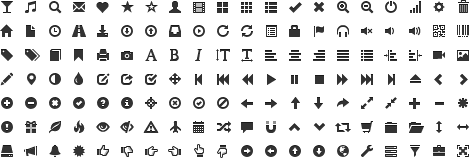
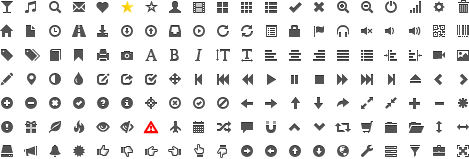
maj profile

diff --git a/public/css/icon-color.css b/public/css/icon-color.css
@@ -13,5 +13,5 @@
 .dropdown-menu > li > a:hover > [class*=" icon-"],
 .dropdown-menu > .active > a > [class^="icon-"],
 .dropdown-menu > .active > a > [class*=" icon-"] {
-  background-image: url("../img/glyphicons-halflings-color.png");
+  background-image: url("../bootstrap/img/glyphicons-halflings-color.png");
 }

diff --git a/application/views/candidat/profile/profile_submenu.php b/application/views/candidat/profile/profile_submenu.php
@@ -1,6 +1,6 @@
 <ul class="nav nav-pills">
-  <li <?php if($rubrique == 0) { echo "class='active'"; } ?>><?php echo anchor('main/edit_profile/0',"Mes infos personnelles"); ?></li>
-  <li <?php if($rubrique == 1) { echo "class='active'"; } ?>><?php echo anchor('main/edit_profile/1',"Mon expérience"); ?></li>
-  <li <?php if($rubrique == 2) { echo "class='active'"; } ?>><?php echo anchor('main/edit_profile/2',"Mes compétences"); ?></li>
-  <li class='red-pill <?php if($rubrique == 3) { echo " active"; } ?>'><?php echo anchor('register/unregister',"Supprimer mon compte"); ?></li>
+  <li <?php if($rubrique == 0) { echo "class='active'"; } ?>><?php echo anchor('main/edit_profile/0',"1. Mes infos personnelles"); ?></li>
+  <li <?php if($rubrique == 1) { echo "class='active'"; } ?>><?php echo anchor('main/edit_profile/1',"2. Mon expérience"); ?></li>
+  <li <?php if($rubrique == 2) { echo "class='active'"; } ?>><?php echo anchor('main/edit_profile/2',"3. Mes compétences"); ?></li>
+  <li class='red-pill pull-right <?php if($rubrique == 3) { echo " active"; } ?>'><?php echo anchor('register/unregister',"<i class='icon icon-color icon-warning-sign'></i> Supprimer mon compte"); ?></li>
 </ul>

diff --git a/application/views/candidat/profile/profile-2.php b/application/views/candidat/profile/profile-2.php
@@ -7,7 +7,7 @@ $description = array(
     'name' => 'description',
     'id'    => 'description',
     'value' => set_value('description',$user->description),
-    'placeholder' => 'Description courte (140 mots)',
+    'placeholder' => 'exemple : Passionné de décoration florale moderne, je pratique avec un style très naturel autour de couleur blanche et verte.',
     'rows' => '4',
     'cols' => '140',
     'class' => 'span10',
@@ -31,6 +31,7 @@ $informatique = array(
 <p class='lead'>Description rapide</p>
 
 <div class='well'>
+    <p>Décrivez en 2 lignes votre style de pratique, votre passion.</p>
     <?php echo form_textarea($description); ?>
 </div>
 

diff --git a/application/views/common/head.php b/application/views/common/head.php
@@ -7,7 +7,7 @@
         
         <link rel="stylesheet" href="http://blueimp.github.com/Bootstrap-Image-Gallery/css/bootstrap-image-gallery.min.css">       
         <link rel="stylesheet" href="<?= base_url(); ?>public/css/jquery.fileupload-ui.css" type="text/css" media="all"/>
-        
+        <link rel="stylesheet" href="<?= base_url(); ?>public/css/icon-color.css" type="text/css" media="all"/>
         <link rel="stylesheet" href="<?= base_url(); ?>public/css/private.css" type="text/css" media="all"/>
         
      

diff --git a/application/controllers/temp.php b/application/controllers/temp.php
@@ -68,7 +68,18 @@ class Temp extends CI_Controller
     
     function info() {
         phpinfo();
-    }  
+    } 
+    
+    
+    
+    function add_list_1() {
+        
+        $data = array(
+        '');
+        
+        //$this->db->insert('');
+        
+    } 
     
     
 } 
